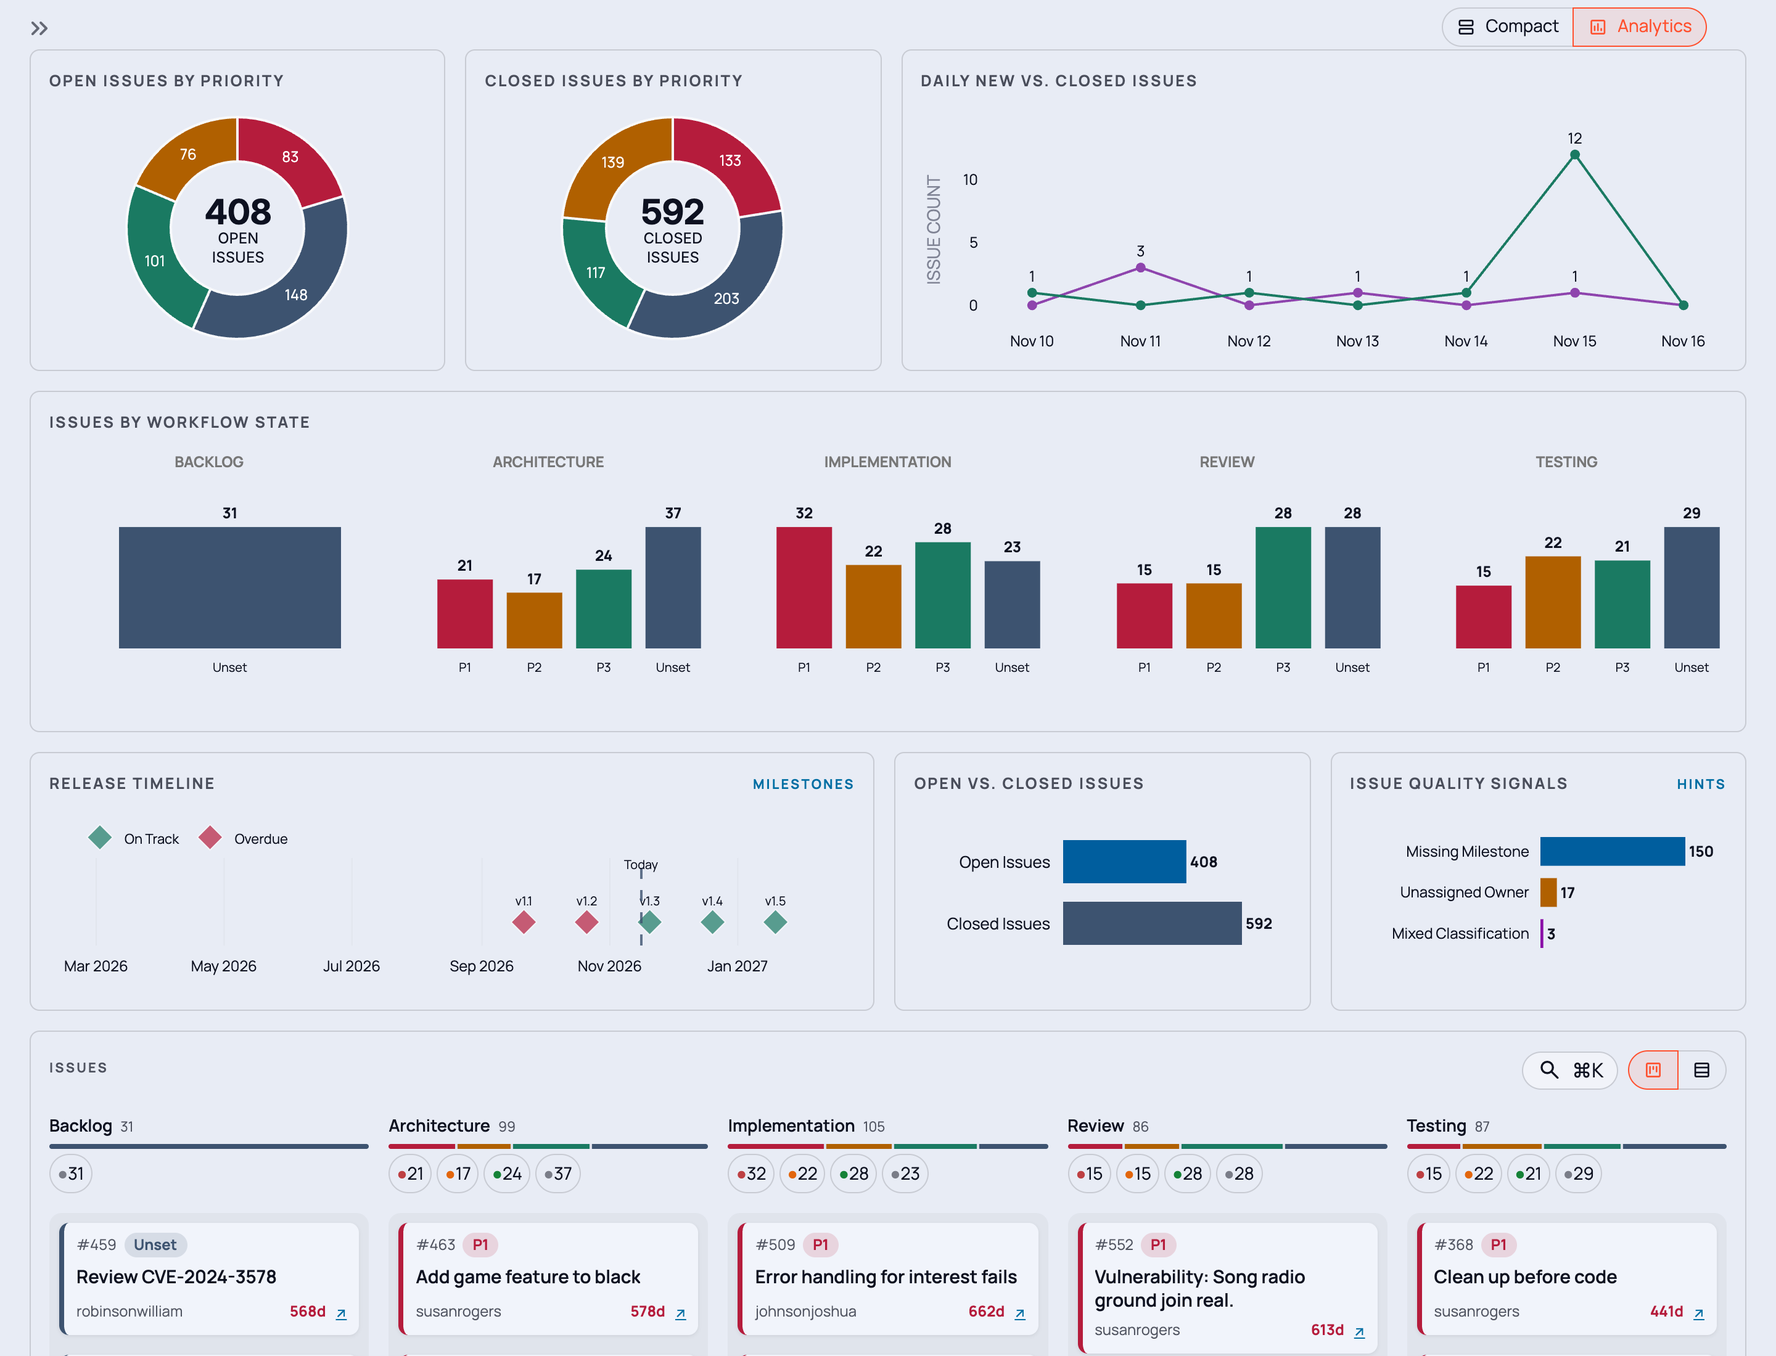
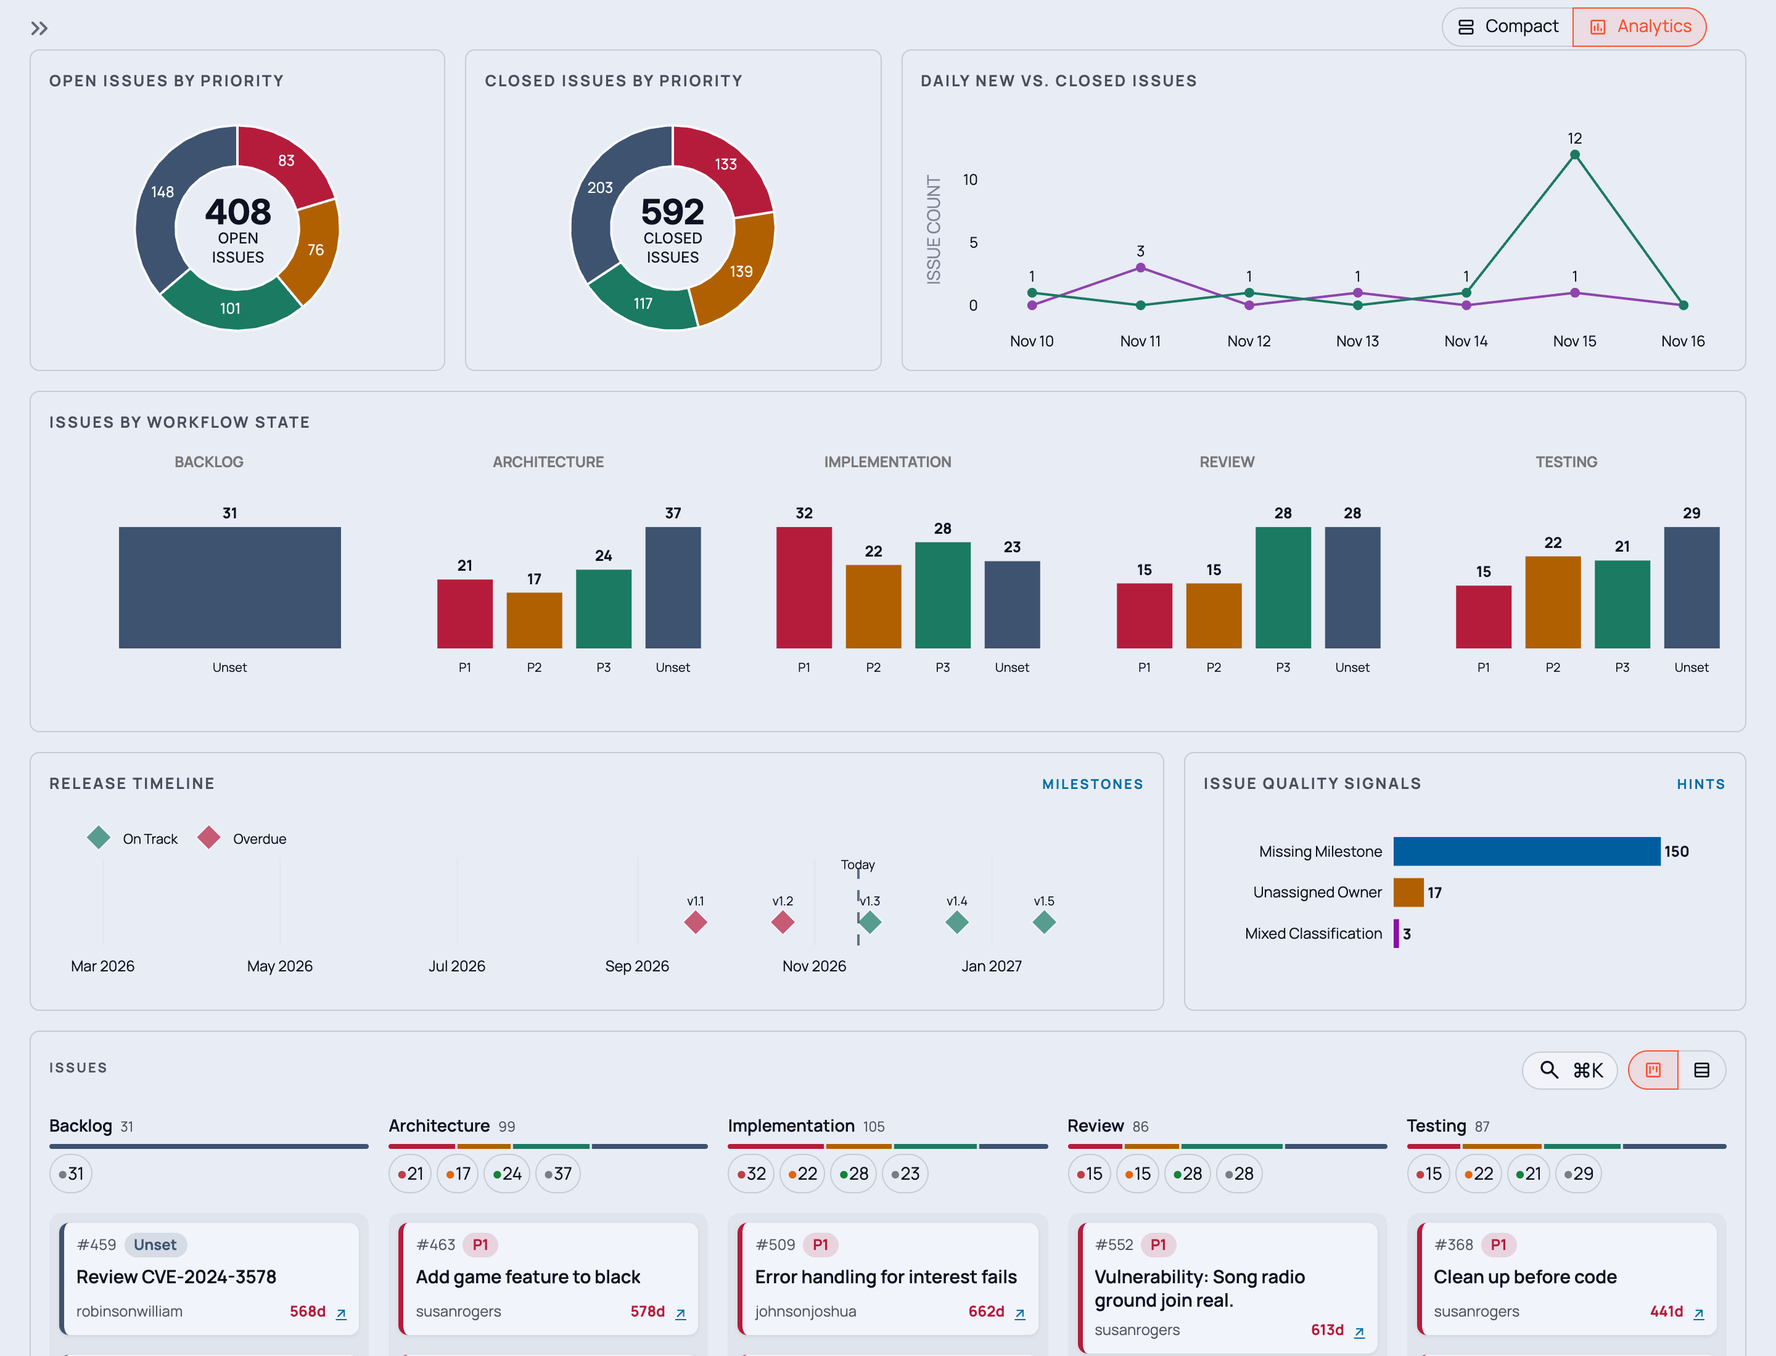
feat(dashboard): make the Analytics priority donuts clickable
Plotly reports no click selection for pie or polar-bar slices, so the
priority donuts could not filter the board. Draw them on x/y axes instead:
each slice is a filled ring segment, and invisible markers over the ring
and over the hole are the click targets. A slice filters the board by its
priority; the centre selects all open (or closed) issues. Since the click
targets are invisible, the donut dims the other slices itself while its
filter is active.

With the donut centres covering it, drop the Open vs. Closed panel from
the Analytics layout; the release timeline now takes two thirds of the
third row and the quality signals one third.

diff --git a/app/dashboard/widgets/charts/priority_donut.py b/app/dashboard/widgets/charts/priority_donut.py
@@ -1,5 +1,6 @@
 """Priority Donut Chart Widget."""
 
+import math
 from typing import Any
 
 import pandas as pd
@@ -13,7 +14,12 @@ from app.dashboard.theme import (
     get_priority_colors,
     get_streamlit_theme_color,
     plotly_layout,
+    with_alpha,
 )
+
+# ``customdata[0]`` of the donut's centre: the click selects all issues of the
+# donut's state, not one priority.
+ALL_ISSUES = "__all__"
 
 
 def priority_donut(
@@ -24,7 +30,8 @@ def priority_donut(
 
     Args:
         df: DataFrame of issues
-        config: Optional configuration
+        config: Optional configuration; ``highlight`` names a priority whose
+            slice stays fully coloured while the others are dimmed.
     """
     config = config or {}
     height = config.get("height", 250)
@@ -85,24 +92,81 @@ def priority_donut(
     mode = get_active_theme_mode()
     bg_color = get_streamlit_theme_color("backgroundColor", "#050811" if mode == "dark" else "#f8f9fc")
 
-    fig = go.Figure(data=[go.Pie(
-        labels=labels,
-        values=values,
-        hole=0.6,
+    # Drawn on ordinary x/y axes, not as a pie: Plotly reports no click
+    # selection for pie (or polar bar) slices, so a pie could not filter
+    # anything. Each slice is a filled ring segment for the look; a grid of
+    # invisible markers over the ring, and one large marker over the hole,
+    # are the click targets. A selection carries ``[label, count]`` in
+    # ``customdata``; the centre's label is ``ALL_ISSUES``.
+    highlight = config.get("highlight")
+    hole, step = 0.6, 2.0
+    sweeps = [360.0 * value / total_issues for value in values]
+    starts = [sum(sweeps[:index]) for index in range(len(sweeps))]
+
+    def ring_point(angle: float, radius: float) -> tuple[float, float]:
+        # Clockwise from 12 o'clock, like the pie it replaces.
+        radians = math.radians(90 - angle)
+        return radius * math.cos(radians), radius * math.sin(radians)
+
+    fig = go.Figure()
+    for label, color, start, sweep in zip(labels, colors, starts, sweeps, strict=True):
+        angles = [start + sweep * i / max(int(sweep / step), 1) for i in range(max(int(sweep / step), 1) + 1)]
+        outline = [ring_point(angle, 1.0) for angle in angles] + [
+            ring_point(angle, hole) for angle in reversed(angles)
+        ]
+        dimmed = highlight is not None and label != highlight
+        fig.add_trace(go.Scatter(
+            x=[x for x, _ in outline] + [outline[0][0]],
+            y=[y for _, y in outline] + [outline[0][1]],
+            fill="toself",
+            fillcolor=with_alpha(color, 0.3) if dimmed else color,
+            line=dict(color=bg_color, width=2),
+            mode="lines",
+            hoverinfo="skip",
+            name=label,
+            showlegend=show_legend,
+        ))
+
+    targets: list[tuple[float, float, str, int]] = []
+    for label, value, start, sweep in zip(labels, values, starts, sweeps, strict=True):
+        count = max(int(sweep / 6), 1)
+        for i in range(count):
+            angle = start + sweep * (i + 0.5) / count
+            for radius in (0.7, 0.9):
+                x, y = ring_point(angle, radius)
+                targets.append((x, y, label, value))
+    fig.add_trace(go.Scatter(
+        x=[x for x, _, _, _ in targets] + [0.0],
+        y=[y for _, y, _, _ in targets] + [0.0],
+        mode="markers",
         marker=dict(
-            colors=colors,
-            line=dict(color=bg_color, width=2)
+            size=[18] * len(targets) + [int(height * 0.42)],
+            color="rgba(0,0,0,0)",
         ),
-        textinfo="value",
-        textposition="inside",
+        customdata=[[label, value] for _, _, label, value in targets]
+        + [[ALL_ISSUES, total_issues]],
+        hovertemplate="%{customdata[0]}: %{customdata[1]}<extra></extra>",
+        showlegend=False,
+    ))
+    # Slice values, at the middle of each segment.
+    middles = [ring_point(start + sweep / 2, (1 + hole) / 2) for start, sweep in zip(starts, sweeps, strict=True)]
+    fig.add_trace(go.Scatter(
+        x=[x for x, _ in middles],
+        y=[y for _, y in middles],
+        mode="text",
+        text=[str(value) if sweep >= 18 else "" for value, sweep in zip(values, sweeps, strict=True)],
         textfont=dict(color="#ffffff", size=12),
-        showlegend=show_legend,
-        sort=False,
-    )])
+        hoverinfo="skip",
+        showlegend=False,
+    ))
+    # ``constrain="domain"`` keeps the ring round and centred in the panel.
+    fig.update_xaxes(visible=False, range=[-1.08, 1.08], fixedrange=True, constrain="domain")
+    fig.update_yaxes(visible=False, range=[-1.08, 1.08], fixedrange=True, scaleanchor="x", scaleratio=1)
 
     fig.add_annotation(
         text=f"<b style='font-size:28px; color:{text_color};'>{total_issues}</b><br><span style='font-size:12px; color:{text_color};'>{center_text}</span>",
-        x=0.5, y=0.5,
+        x=0, y=0,
+        xref="x", yref="y",
         font=dict(family="Inter, sans-serif"),
         showarrow=False,
         xanchor="center",

diff --git a/app/dashboard/views/overview_analytics.py b/app/dashboard/views/overview_analytics.py
@@ -1,10 +1,11 @@
 """Analytics layout of the Overview page.
 
-The original chart grid (three rows of panels) for stepping back: the priority
-donuts, the daily new-vs-closed line, the workflow-state bars, the release
-timeline, open vs. closed issues and the quality signals. A click on a chart
-segment filters the issue board below the grid and keeps the segment
-highlighted (see ``issue_panel.apply_chart_selection``).
+The chart grid (three rows of panels) for stepping back: the priority donuts,
+the daily new-vs-closed line, the workflow-state bars, the release timeline and
+the quality signals. A click on a chart segment filters the issue board below
+the grid and keeps the segment highlighted (see
+``issue_panel.apply_chart_selection``). A click in a donut's centre selects all
+open (or closed) issues, so there is no separate open-vs-closed chart.
 """
 
 from collections.abc import Callable
@@ -21,7 +22,11 @@ from app.dashboard.engine import (
 )
 from app.dashboard.theme import get_palette, get_plotly_font_color, with_alpha
 from app.dashboard.views.issue_data import _build_overview_quality_signal_df
-from app.dashboard.views.issue_panel import apply_chart_selection, chart_key
+from app.dashboard.views.issue_panel import (
+    apply_chart_selection,
+    chart_key,
+    chart_priority_highlight,
+)
 from app.dashboard.widgets import charts
 
 
@@ -87,6 +92,7 @@ def render_analytics_charts(
                 "height": 200,
                 "key": chart_key("analytics_priority_open", "open_donut"),
                 "show_legend": False,
+                "highlight": chart_priority_highlight("open_donut"),
             },
         )
         select(selection, "open_donut", state_filter="opened")
@@ -100,6 +106,7 @@ def render_analytics_charts(
                 "show_legend": False,
                 "state_filter": "closed",
                 "center_text": "CLOSED<br>ISSUES",
+                "highlight": chart_priority_highlight("closed_donut"),
             },
         )
         select(selection, "closed_donut", state_filter="closed")
@@ -151,13 +158,6 @@ def render_analytics_charts(
             st.session_state["timeline_reset_counter"] = key_suffix + 1
             st.rerun()
 
-    def issue_state() -> None:
-        selection = charts.issue_state_bar(
-            unique_df,
-            config={"height": 150, "key": chart_key("analytics_issue_state", "issue_state_chart")},
-        )
-        select(selection, "issue_state_chart")
-
     def quality_signals() -> None:
         selection = charts.error_distribution(
             _build_overview_quality_signal_df(unique_df),
@@ -185,10 +185,9 @@ def render_analytics_charts(
         ),
         StreamlitGridRow(
             cells=(
-                panel_cell("analytics_timeline", 6, "Release Timeline", timeline, meta="Milestones"),
-                panel_cell("analytics_issue_state", 3, "Open vs. Closed Issues", issue_state),
+                panel_cell("analytics_timeline", 8, "Release Timeline", timeline, meta="Milestones"),
                 panel_cell(
-                    "analytics_quality_signals", 3, "Issue Quality Signals", quality_signals,
+                    "analytics_quality_signals", 4, "Issue Quality Signals", quality_signals,
                     meta="Hints",
                 ),
             )

diff --git a/tests/test_priority_donut.py b/tests/test_priority_donut.py
@@ -1,0 +1,51 @@
+"""Tests for the clickable priority donut.
+
+Plotly reports no click selection for pie slices, so the donut is drawn on x/y
+axes with invisible click targets (see ``priority_donut``).
+"""
+
+import importlib
+from typing import Any
+
+import pandas as pd
+import plotly.graph_objects as go
+import pytest
+
+widget = importlib.import_module("app.dashboard.widgets.charts.priority_donut")
+
+
+def _render(monkeypatch: pytest.MonkeyPatch, config: dict[str, Any]) -> go.Figure:
+    captured: dict[str, go.Figure] = {}
+
+    def fake_plotly_chart(fig: go.Figure, **_: Any) -> None:
+        captured["fig"] = fig
+
+    monkeypatch.setattr(widget.st, "plotly_chart", fake_plotly_chart)
+    df = pd.DataFrame(
+        {
+            "state": ["opened"] * 4,
+            "priority": ["P1", "P1", "P2", None],
+            "priority_rank": [1, 1, 2, None],
+        }
+    )
+    widget.priority_donut(df, config)
+    return captured["fig"]
+
+
+def test_no_pie_trace_and_every_slice_has_click_targets(monkeypatch: pytest.MonkeyPatch) -> None:
+    """Slices are scatter shapes; click targets carry the priority and count."""
+    fig = _render(monkeypatch, {"show_legend": False})
+
+    assert not any(trace.type == "pie" for trace in fig.data)
+    targets = next(trace for trace in fig.data if trace.mode == "markers")
+    labels = {tuple(item) for item in targets.customdata}
+    assert labels == {("P1", 2), ("P2", 1), ("Unset", 1), (widget.ALL_ISSUES, 4)}
+
+
+def test_highlight_dims_the_other_slices(monkeypatch: pytest.MonkeyPatch) -> None:
+    """Only the highlighted priority keeps its full colour."""
+    fig = _render(monkeypatch, {"show_legend": False, "highlight": "P2"})
+
+    fills = {trace.name: trace.fillcolor for trace in fig.data if trace.fill == "toself"}
+    assert not fills["P2"].startswith("rgba")
+    assert fills["P1"].startswith("rgba") and fills["Unset"].startswith("rgba")

diff --git a/app/dashboard/views/issue_data.py b/app/dashboard/views/issue_data.py
@@ -507,6 +507,8 @@ class IssueFacets(TypedDict, total=False):
 
 
 FACET_QUERY_PREFIX = "f_"
+# ``customdata[0]`` of a priority donut's centre (``priority_donut.ALL_ISSUES``).
+DONUT_ALL_ISSUES = "__all__"
 _FACET_KEYS = ("stage", "state", "priority", "signal", "query", "recent", "day", "day_kind")
 RECENT_DAYS = 7
 _FACET_STATES = ("opened", "closed", "all")
@@ -565,9 +567,9 @@ def facets_from_selection(
     """Translate a Plotly selection in an Analytics chart into board facets.
 
     Args:
-        chart_id: ``velocity_chart``, ``issue_state_chart``,
-            ``quality_signal_chart``, or a priority chart (the donuts and the
-            workflow-state bars).
+        chart_id: ``open_donut``, ``closed_donut``, ``velocity_chart``,
+            ``issue_state_chart``, ``quality_signal_chart``, or a workflow-state
+            bar chart (``stage_bar_<n>``).
         points: Selected points as reported by ``st.plotly_chart``.
         stage_filter: Stage the chart is scoped to, if any.
         state_filter: Issue state the chart is scoped to, if any.
@@ -588,7 +590,12 @@ def facets_from_selection(
         str(customdata[0]).strip() if isinstance(customdata, list) and customdata else ""
     )
 
-    if isinstance(value, str) and value:
+    if chart_id in ("open_donut", "closed_donut"):
+        # Donut slices carry their priority in ``customdata``; the centre
+        # stands for all issues of the donut's state.
+        if first_custom and first_custom != DONUT_ALL_ISSUES:
+            raw["priority"] = first_custom
+    elif isinstance(value, str) and value:
         if chart_id == "velocity_chart":
             is_closed = point.get("curveNumber") == 1
             if first_custom:

diff --git a/app/dashboard/views/issue_panel.py b/app/dashboard/views/issue_panel.py
@@ -97,7 +97,13 @@ def chart_key(base: str, chart_id: str) -> str:
 
 
 def _reset_charts(except_chart: str | None = None) -> None:
-    """Make the charts that hold a selection drop it, except ``except_chart``."""
+    """Make the charts that hold a selection drop it, except ``except_chart``.
+
+    Called whenever the filter changes another way than by a click in that
+    chart, so the chart's highlight never outlives its filter.
+    """
+    if except_chart is None:
+        st.session_state["issue_chart"] = None
     resets: dict[str, int] = st.session_state.setdefault("issue_chart_resets", {})
     signatures: dict[str, str] = st.session_state.setdefault("issue_chart_signatures", {})
     for chart_id in list(signatures):
@@ -134,11 +140,23 @@ def apply_chart_selection(
     if query:
         facets["query"] = query
     st.session_state["issue_summary"] = None
+    st.session_state["issue_chart"] = chart_id
     st.session_state["issue_facets"] = facets
     st.session_state["selected_issue_url"] = ""
     _reset_charts(except_chart=chart_id)
     _reset_table()
     st.rerun()
+
+
+def chart_priority_highlight(chart_id: str) -> str | None:
+    """Return the priority a chart should draw highlighted, if any.
+
+    Only for a chart whose own click set the board's current filter (charts
+    whose click targets are invisible draw their highlight themselves).
+    """
+    if st.session_state.get("issue_chart") != chart_id:
+        return None
+    return _get_facets().get("priority")
 
 
 def _set_facets(facets: IssueFacets) -> None:

diff --git a/tests/test_issue_facets.py b/tests/test_issue_facets.py
@@ -175,7 +175,9 @@ def test_analytics_chart_selections_become_board_facets() -> None:
     stage_bar = facets_from_selection(
         "stage_bar_2", [{"x": "P1"}], stage_filter="Review", state_filter="opened"
     )
-    donut = facets_from_selection("closed_donut", [{"label": "P2"}], state_filter="closed")
+    donut = facets_from_selection(
+        "closed_donut", [{"customdata": ["P2", 76]}], state_filter="closed"
+    )
     state = facets_from_selection(
         "issue_state_chart", [{"y": "Closed Issues", "customdata": ["closed"]}]
     )
@@ -202,3 +204,16 @@ def test_velocity_point_selects_the_issues_created_or_closed_that_day() -> None:
     assert without_facet(closed, "day") == {"state": "closed"}
     assert facets_from_query(facets_to_query(closed)) == closed
     assert facets_from_query({"f_day": "not-a-date", "f_day_kind": "closed"}) == {}
+
+
+def test_donut_slice_and_centre_selections() -> None:
+    """A slice selects its priority; the centre selects the whole state."""
+    slice_ = facets_from_selection(
+        "open_donut", [{"x": 0.3, "y": 0.6, "customdata": ["P1", 83]}], state_filter="opened"
+    )
+    centre = facets_from_selection(
+        "closed_donut", [{"x": 0.0, "y": 0.0, "customdata": ["__all__", 592]}], state_filter="closed"
+    )
+
+    assert slice_ == {"state": "opened", "priority": "P1"}
+    assert centre == {"state": "closed"}

diff --git a/docs/spec/TSD_View_Overview.md b/docs/spec/TSD_View_Overview.md
@@ -76,15 +76,19 @@ The header counts ignore the stage and priority filters, so every lane keeps its
 
 ### 3.4 Analytics layout
 
-`render_analytics_charts` in `app/dashboard/views/overview_analytics.py`: the original three rows of panels, unchanged in content.
+`render_analytics_charts` in `app/dashboard/views/overview_analytics.py`: three rows of panels, based on the original chart grid.
 
 | Row | Panels |
 |---|---|
 | 1 | Open Issues by Priority (donut), Closed Issues by Priority (donut), Daily New vs. Closed Issues (7 days) |
 | 2 | Issues by Workflow State (priority bars per stage) |
-| 3 | Release Timeline (horizontal), Open vs. Closed Issues, Issue Quality Signals |
+| 3 | Release Timeline (two thirds of the width), Issue Quality Signals (one third) |
 
-A click on a chart segment filters the board below the grid (it does not open a dialog) and the segment stays highlighted by Plotly's own selection. When the filter changes another way (a chip, a pill, "Clear all", the search panel), the charts are rebuilt with new widget keys so the highlight disappears. In this layout the board's toolbar shows an "Issues" label instead of the summary pills, since the charts show the same counts.
+The original "Open vs. Closed Issues" panel is gone: a click in a donut's centre selects all open (or all closed) issues, and the donuts already show both totals.
+
+The donuts are drawn on x/y axes instead of as Plotly pies, because Plotly reports no click selection for pie (or polar bar) slices. Each slice is a filled ring segment; a grid of invisible markers over the ring and one large marker over the hole are the click targets, carrying `[priority, count]` (the centre: `__all__`) in `customdata`. Since the click targets are invisible, the donut draws its own highlight: while its filter is active, the other slices are dimmed (`highlight` option, from `chart_priority_highlight`).
+
+A click on a chart segment filters the board below the grid (it does not open a dialog) and the segment stays highlighted by Plotly's own selection (the donuts draw theirs, see above). When the filter changes another way (a chip, a pill, "Clear all", the search panel), the charts are rebuilt with new widget keys so the highlight disappears. In this layout the board's toolbar shows an "Issues" label instead of the summary pills, since the charts show the same counts.
 
 ## 4. Interactions
 
@@ -94,7 +98,7 @@ The board is always visible and shows all open issues until something filters it
 
 - a summary pill sets the base facets (3.2),
 - a lane pill adds `stage` and `priority` (3.3),
-- a chart click in the Analytics layout sets the facets the segment stands for (`facets_from_selection`): a donut slice its state and priority, a workflow-state bar its stage, open state and priority, a velocity point the day and created/closed, an open/closed bar the state, a quality bar the signal (3.4),
+- a chart click in the Analytics layout sets the facets the segment stands for (`facets_from_selection`): a donut slice its state and priority, a donut centre its state, a workflow-state bar its stage, open state and priority, a velocity point the day and created/closed, an open/closed bar the state, a quality bar the signal (3.4),
 - the search panel sets `query`, `state` and the sidebar filters (4.5).
 
 Open issues are the default: a missing `state` means `opened`, and only `closed` or `all` is shown as a chip (not next to a 7-day filter, which already says which issues it covers).
